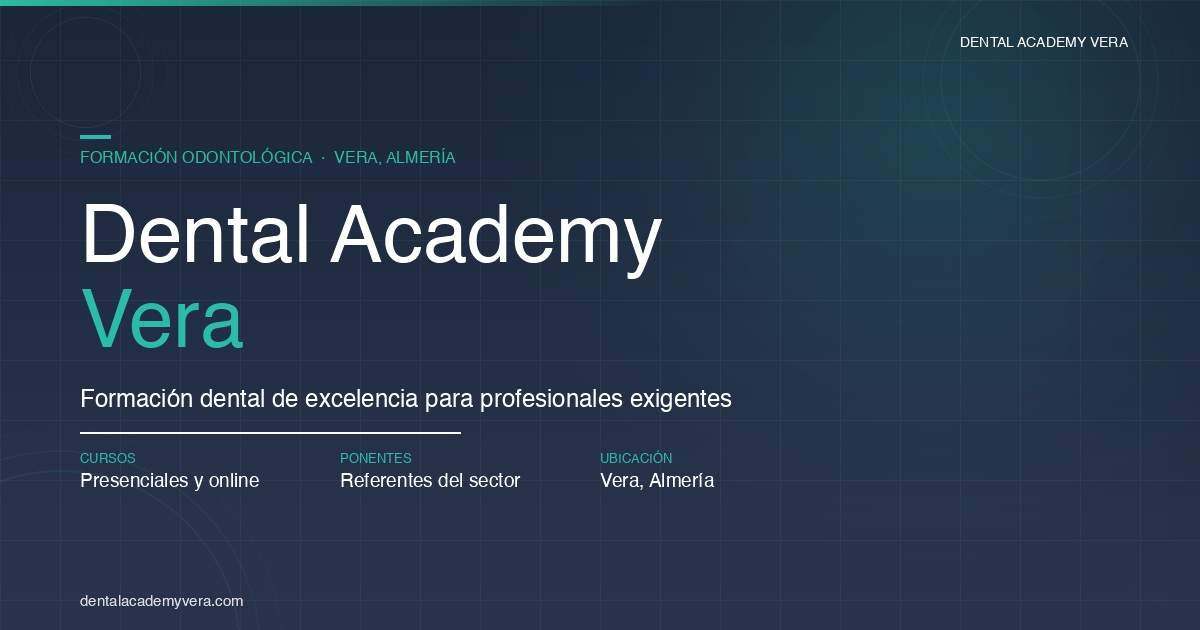
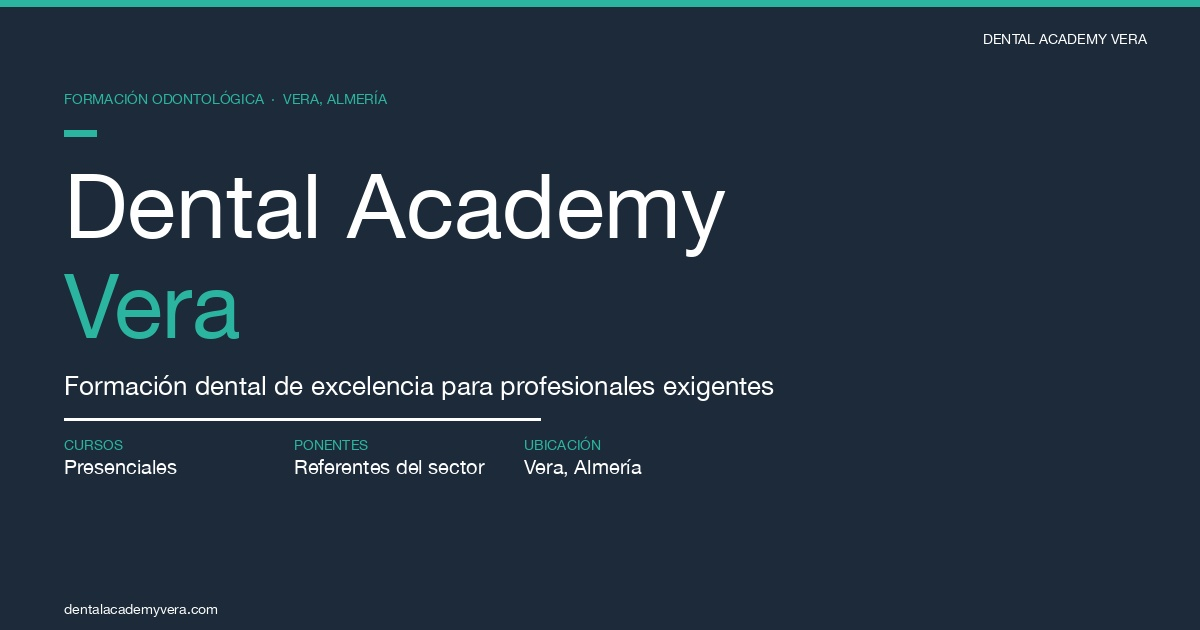
Fix OpenGraph images not loading when sharing
- metadataBase now dynamic: NEXT_PUBLIC_SITE_URL > VERCEL_URL > localhost
  Previously hardcoded to dentalacademyvera.com (unresolved), causing 404s
  on the Vercel preview URL
- Course OG image URL made absolute (SITE_URL prefix) — scrapers don't
  reliably resolve relative OG image paths
- Regenerate og-image.jpg with solid background (remove grid pattern)

diff --git a/app/cursos/[id]/page.tsx b/app/cursos/[id]/page.tsx
@@ -11,7 +11,9 @@ import { professors } from '@/lib/data/professors'
 import { CONTACT, whatsappCourse } from '@/lib/contact'
 import Nav from '@/components/Nav'
 
-const SITE_URL = 'https://dentalacademyvera.com'
+const SITE_URL =
+  process.env.NEXT_PUBLIC_SITE_URL ??
+  (process.env.VERCEL_URL ? `https://${process.env.VERCEL_URL}` : 'http://localhost:3000')
 
 type Props = { params: Promise<{ id: string }> }
 
@@ -41,13 +43,13 @@ export async function generateMetadata({ params }: Props): Promise<Metadata> {
       description,
       url,
       type: 'website',
-      images: [{ url: `/cursos/${id}/opengraph-image`, width: 1200, height: 630, alt: title }],
+      images: [{ url: `${SITE_URL}/cursos/${id}/opengraph-image`, width: 1200, height: 630, alt: title }],
     },
     twitter: {
       card: 'summary_large_image',
       title,
       description,
-      images: [`/cursos/${id}/opengraph-image`],
+      images: [`${SITE_URL}/cursos/${id}/opengraph-image`],
     },
   }
 }

diff --git a/app/layout.tsx b/app/layout.tsx
@@ -23,7 +23,9 @@ const outfit = Outfit({
   display: 'swap',
 })
 
-const SITE_URL = 'https://dentalacademyvera.com'
+const SITE_URL =
+  process.env.NEXT_PUBLIC_SITE_URL ??
+  (process.env.VERCEL_URL ? `https://${process.env.VERCEL_URL}` : 'http://localhost:3000')
 const SITE_NAME = 'Dental Academy Vera'
 
 export const metadata: Metadata = {
